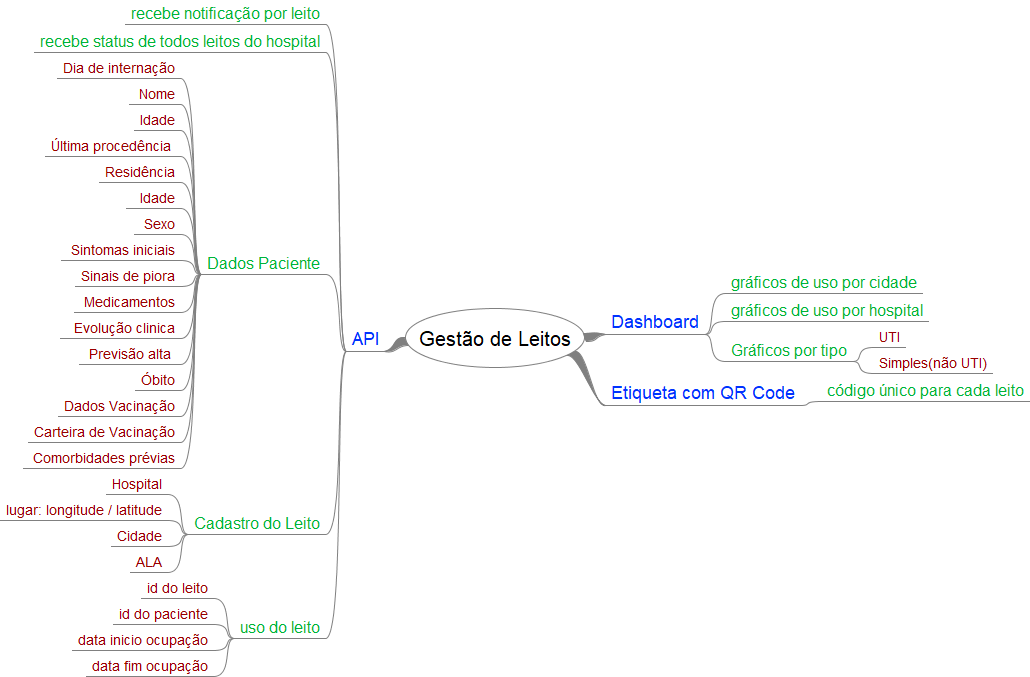
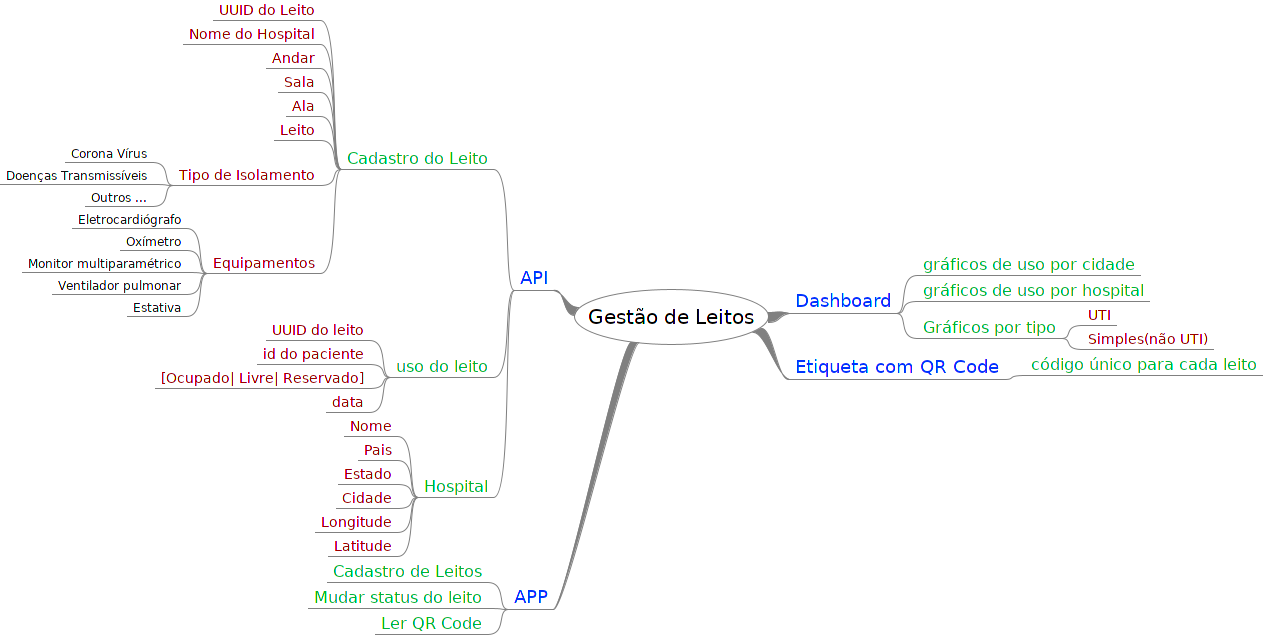
up

Changed region(s): [[0.0, 0.0, 1.0, 1.0], [0.435, 0.778, 0.466, 0.8976], [0.3107, 0.0898, 0.3417, 0.1197]]

diff --git a/README.md b/README.md
@@ -10,6 +10,8 @@ que usando etiquetas com QR Code mantém as informações atualizadas em tempo r
 diferentemente dos sistemas dos próprios hospitais que não compartilham a informação,
 no caso o BedSystem possui uma visão geral dos leitos
 
+# Mapa Mental
+![Mapa Mental](/docs/Gestao-de-Leitos.png)
 
 # Problemas sendo resolvidos pelo sistema
  __Carlos Algarte (responsável pelo TI da Secretaria de Saúde de Franca)__
@@ -30,7 +32,11 @@ no caso o BedSystem possui uma visão geral dos leitos
 
 
 # Dashboard
-
+Grafana: 
+ * http://54.209.248.173:3000/d/WfiPUWjWz/hospitais?orgId=1
+ 
+ usuario: gerente  
+ senha:hackforlife2020
 
 
 # Imagens
@@ -67,3 +73,10 @@ Configure o arquivo .env
   npm run migrate
   
   npm start
+
+
+# Créditos
+
+https://github.com/crypnet
+
+https://github.com/johnnyvaz1
